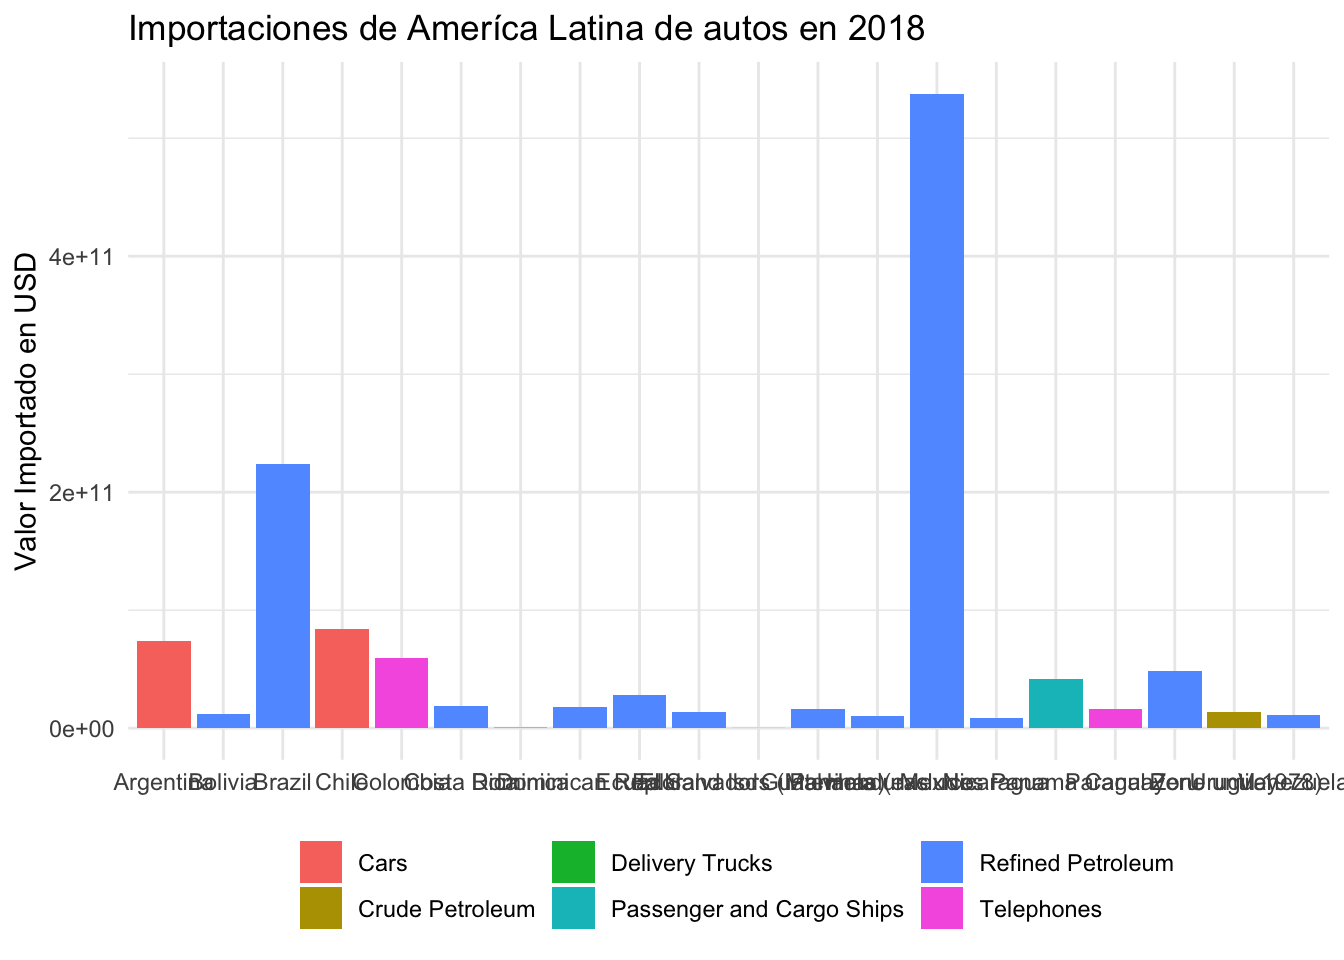
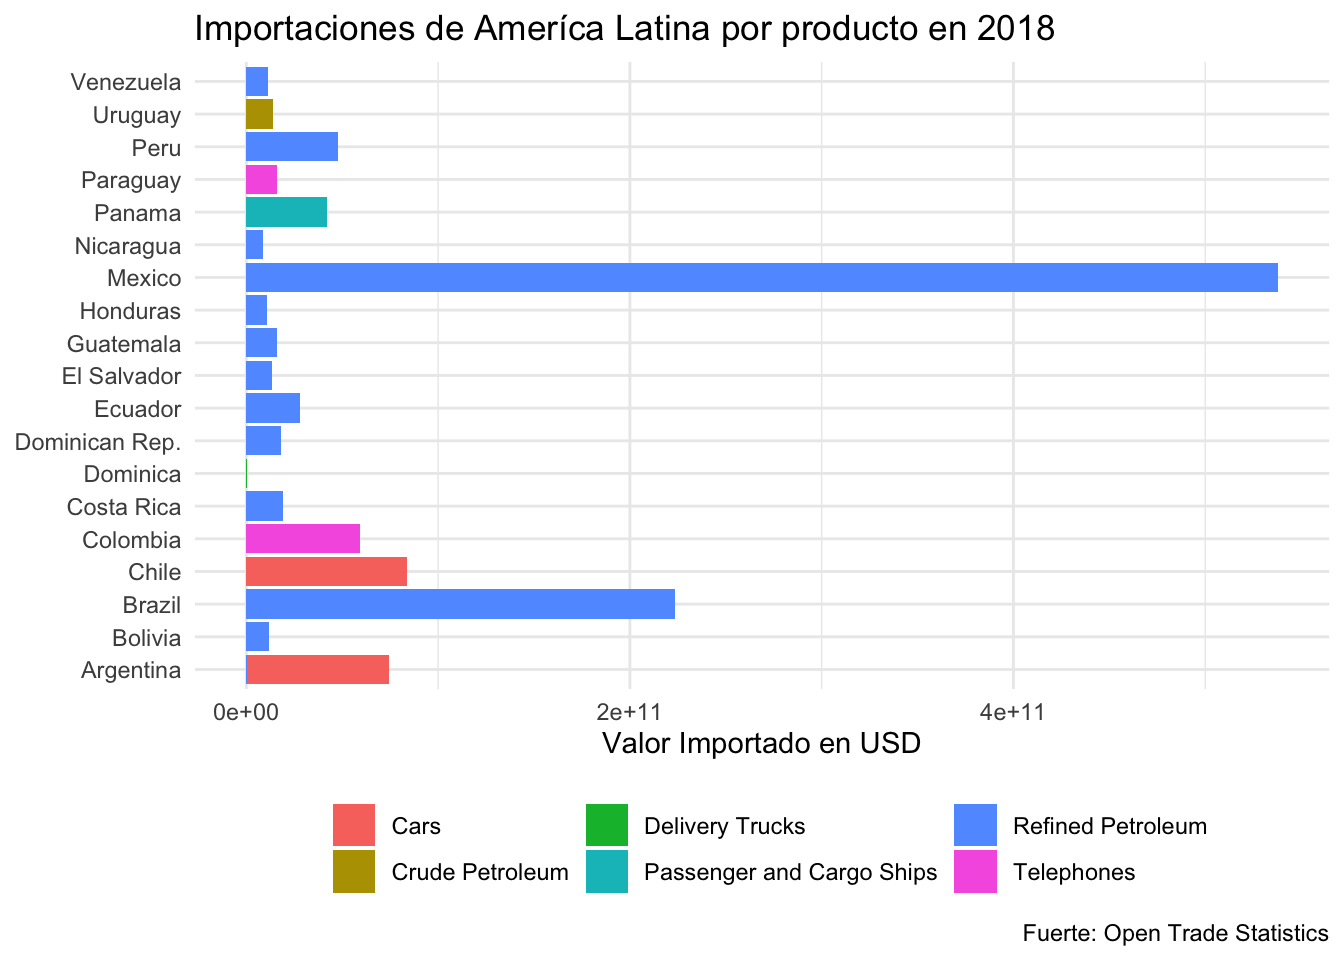
Commiting changes to analisis importación LATAM

diff --git a/content/post/2020-12-07-importacion/index.html b/content/post/2020-12-07-importacion/index.html
@@ -102,7 +102,7 @@ productos_latam_import &lt;- merge(x = comercio_latam, y = productos_latam,
          reporter_fullname_english != &quot;Turks and Caicos Isds&quot;,
          reporter_fullname_english != &quot;Trinidad and Tobago&quot;,
          reporter_fullname_english != &quot;Saint Vincent and the Grenadines&quot;,
-         reporter_fullname_english != &quot;USA, Puerto Rico and US Virgin Islands (excludes Virgin Islands until 1981)&quot;,
+      reporter_fullname_english != &quot;USA, Puerto Rico and US Virgin Islands (excludes Virgin Islands until 1981)&quot;,
          reporter_fullname_english != &quot;Canada&quot;,
          reporter_fullname_english != &quot;Greenland&quot;,
          reporter_fullname_english != &quot;Br. Virgin Isds&quot;,
@@ -142,14 +142,20 @@ ggplot(productos_latam_import_2018, aes(
 <p>Está claro que el producto que más se importa en América Latina en 2018 eran autos y petroleum refineado.</p>
 <p>Pero qué países importan más de esos dos productos?</p>
 <pre class="r"><code>
+import_countries_modificied &lt;- productos_latam_import %&gt;%
+  mutate(reporter_fullname_english = as.factor(reporter_fullname_english)) 
 
-import_countries_2018 &lt;- productos_latam_import %&gt;%
+import_countries_2018 &lt;- import_countries_modificied %&gt;%
   select(reporter_fullname_english,
          import_value_usd,
          top_import_product_code,
          product_shortname_english) %&gt;%
+  mutate(reporter_fullname_english = fct_collapse(reporter_fullname_english,
+                                                  &quot;Panama&quot; = &quot;Panama (excludes Panama Canal Zone until 1978)&quot;,
+                                                  &quot;Argentina&quot; = c(&quot;Argentina&quot;, &quot;Falkland Isds (Malvinas)&quot;))) %&gt;% 
   group_by(reporter_fullname_english, product_shortname_english, top_import_product_code) %&gt;%
   summarise(import_value_usd = sum(import_value_usd, na.rm = T)) %&gt;%
+  arrange(desc(import_value_usd)) %&gt;%
   drop_na()
 
 ggplot(import_countries_2018, aes(
@@ -161,10 +167,11 @@ ggplot(import_countries_2018, aes(
     x = NULL,
     y = &quot;Valor Importado en USD&quot;,
     fill = NULL,
-    title = &quot;Importaciones de Ameríca Latina de autos en 2018&quot;) +
+    title = &quot;Importaciones de Ameríca Latina por producto en 2018&quot;,
+    caption = &quot;Fuerte: Open Trade Statistics&quot;) +
   theme_minimal() +
-  theme(legend.position = &quot;bottom&quot;,
-        )</code></pre>
+  theme(legend.position = &quot;bottom&quot;) +
+  coord_flip()</code></pre>
 <p><img src="index_files/figure-html/comercio%20LATAM%20productos%20por%20pai%CC%81s-1.png" width="672" /></p>
 </div>
 </div>
